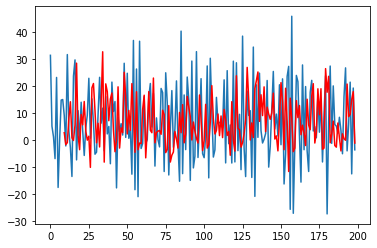
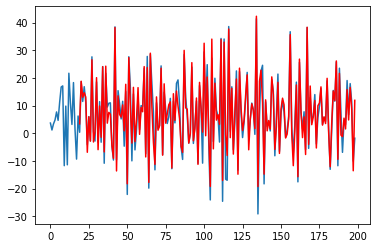
RNN_ch9 v02

diff --git a/Recurrent_neural_networks/RNN_ch9.md b/Recurrent_neural_networks/RNN_ch9.md
@@ -32,7 +32,7 @@ ax1.plot(x, data);
 
 
     
-![png](../plots/RNN_fig1.png)
+![png](../plots/RNN_fig1.png);
     
 
 
@@ -70,21 +70,22 @@ def sequencesPreparation(input_data_1d, sequence_len):
 
 
 ```python
-def XYdataLoader(input_data_1d, sequence_len, batch_size):
+def XYdataLoader(input_data_1d, sequence_len, batch_size, shuffle):
     
     X,Y = sequencesPreparation(input_data_1d, sequence_len);
 
     dataset = torch.utils.data.TensorDataset(X,Y);
     
-    return torch.utils.data.DataLoader(dataset, batch_size, shuffle=True, num_workers=2);
+    return torch.utils.data.DataLoader(dataset, batch_size, shuffle=shuffle, num_workers=2);
 ```
 
 
 ```python
-batch_size = 19;
-sequence_len = 9;
+sequence_len = 19;
+batch_size = (num_data-1)-sequence_len;
 
-dataset = XYdataLoader(data_trans, sequence_len, batch_size);
+dataset = XYdataLoader(data_trans, sequence_len, batch_size, True);
+dataset_approx = XYdataLoader(data_trans, sequence_len, batch_size, False);
 ```
 
 ***
@@ -115,9 +116,9 @@ class RNN(nn.Module):
         
         for t in range(len(X)):
             if t == 0:
-                H_t = torch.tanh(X[t] * self.W_xh + self.b_h);
+                H_t = torch.tanh(torch.matmul(X[t],self.W_xh) + self.b_h);
             else:
-                H_t = torch.tanh(X[t] * self.W_xh + torch.matmul(H_t, self.W_hh) + self.b_h);
+                H_t = torch.tanh(torch.matmul(X[t],self.W_xh) + torch.matmul(H_t, self.W_hh) + self.b_h);
 
             outputs.append(torch.matmul(H_t, self.W_hq) + self.b_q);
             
@@ -178,7 +179,7 @@ def gradientClipping(rnn, alpha=1):
 
 
 ```python
-def trainRNN(rnn, dataset, loss, optimizer, num_epochs, batch_size, alpha=1):
+def trainRNN(rnn, dataset, loss, optimizer, num_epochs, alpha=1):
     
     rnn.train();
     
@@ -186,20 +187,18 @@ def trainRNN(rnn, dataset, loss, optimizer, num_epochs, batch_size, alpha=1):
         X_test, Y_test = None, None;
 
         for X,Y in dataset:
-                
-            if len(X) == batch_size:
-                X = XTransform(X);
-                Y = YTransform(Y);            
-                l = loss(rnn(X), Y);
-                
-                with torch.no_grad():
-                    l.backward();
-                    gradientClipping(rnn, alpha);
-                    optimizer.step();
-                    optimizer.zero_grad();
-                    
-                if X_test == None and Y_test == None:
-                    X_test, Y_test = X, Y;
+            X = XTransform(X);
+            Y = YTransform(Y);            
+            l = loss(rnn(X), Y);
+
+            with torch.no_grad():
+                l.backward();
+                gradientClipping(rnn, alpha);
+                optimizer.step();
+                optimizer.zero_grad();
+
+            if X_test == None and Y_test == None:
+                X_test, Y_test = X, Y;
             
         print(f'Training loss {loss(rnn(X_test), Y_test)}');
         print(f'Epoch {epoch}');                        
@@ -209,36 +208,36 @@ def trainRNN(rnn, dataset, loss, optimizer, num_epochs, batch_size, alpha=1):
 
 
 ```python
-rnn = RNN(batch_size, 32, 1);
+rnn = RNN(1, 32, 1);
 ```
 
 
 ```python
-optimizer = torch.optim.SGD(rnn.parameters(), lr=0.01);
+optimizer = torch.optim.SGD(rnn.parameters(), lr=0.003);
 ```
 
 
 ```python
-rnn_trained = trainRNN(rnn, dataset, loss, optimizer, 1000, batch_size);
+rnn_trained = trainRNN(rnn, dataset, loss, optimizer, 5000);
 ```
 
-    Training loss 237.73231506347656
+    Training loss 230.382568359375
     Epoch 0
-    Training loss 271.89312744140625
+    Training loss 223.46714782714844
     Epoch 1
-    Training loss 225.37205505371094
+    Training loss 219.18490600585938
     Epoch 2
-    Training loss 234.2942657470703
+    Training loss 215.7847900390625
     Epoch 3
-    ...
-    Training loss 115.64496612548828
-    Epoch 996
-    Training loss 123.0284652709961
-    Epoch 997
-    Training loss 133.09402465820312
-    Epoch 998
-    Training loss 118.36428833007812
-    Epoch 999
+    ...    
+    Training loss 32.84019470214844
+    Epoch 4996
+    Training loss 32.96391296386719
+    Epoch 4997
+    Training loss 32.80417251586914
+    Epoch 4998
+    Training loss 32.08708953857422
+    Epoch 4999
 
 
 ***
@@ -246,12 +245,13 @@ rnn_trained = trainRNN(rnn, dataset, loss, optimizer, 1000, batch_size);
 
 
 ```python
-def RNNapproximation(rnn, dataset, batch_size):
+def RNNapproximation(rnn, dataset):
     
-    Y_hat = None;
+    rnn.eval();
+    with torch.no_grad():
+        Y_hat = None;
 
-    for X,Y in dataset:
-        if len(X) == batch_size:
+        for X,Y in dataset:
             X = XTransform(X);
             Y_hat_batch = rnn(X);
 
@@ -265,7 +265,7 @@ def RNNapproximation(rnn, dataset, batch_size):
 
 
 ```python
-Y_hat = RNNapproximation(rnn, dataset, batch_size);
+Y_hat = RNNapproximation(rnn, dataset_approx);
 Y_hat = Y_hat.flatten();
 Y_hat.shape
 ```
@@ -273,7 +273,7 @@ Y_hat.shape
 
 
 
-    torch.Size([190])
+    torch.Size([180])
 
 
 
@@ -292,6 +292,19 @@ ax2.plot(torch.arange(sequence_len,num_data-1), Y_hat.detach().numpy(), color="r
 
 
 ```python
+fig_zoom, ax_zoom = plt.subplots();
+ax_zoom.plot(x[75:125], data_trans[75:125]);
+ax_zoom.plot(torch.arange(75,125), Y_hat.detach().numpy()[75-sequence_len:125-sequence_len], color="r");
+```
+
+
+    
+![png](../plots/RNN_fig4.png)
+    
+
+
+
+```python
 data_approx = Y_hat + data[sequence_len:-1];
 
 fig3, ax3 = plt.subplots();
@@ -301,6 +314,6 @@ ax3.plot(torch.arange(sequence_len,num_data-1), data_approx.detach().numpy(), co
 
 
     
-![png](../plots/RNN_fig4.png)
+![png](../plots/RNN_fig5.png)
     
 
